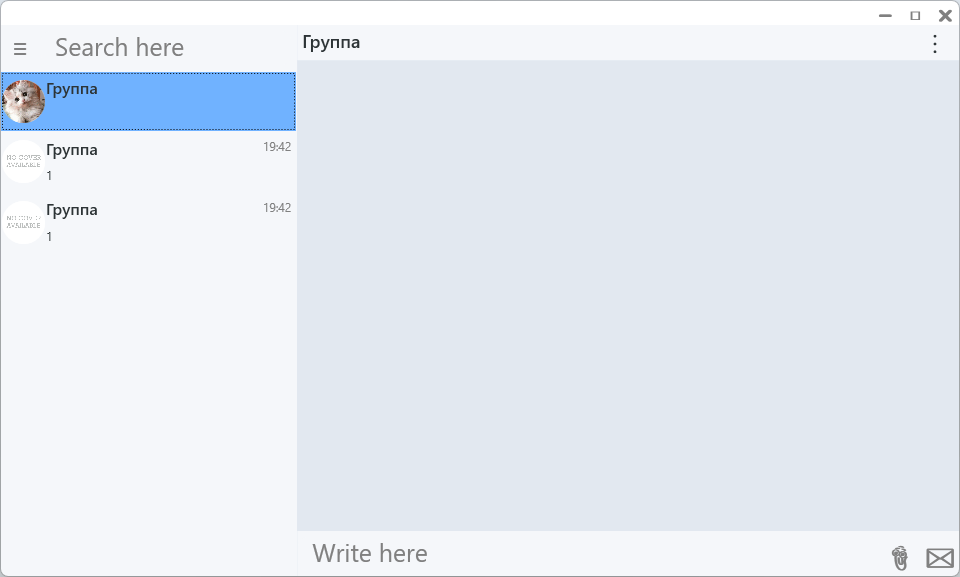
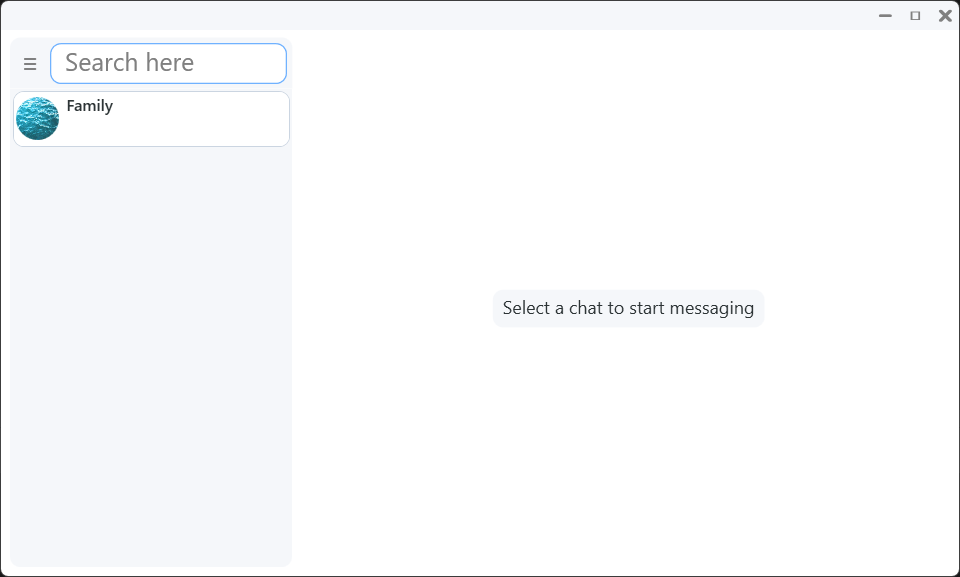
docs: change screenshots and headers in Core Features

diff --git a/readme.md b/readme.md
@@ -1,11 +1,11 @@
 # SpoofMessDesktop
 ## What is it?
 A desktop(Windows) client for [SpoofMess]("https://github.com/Pychka/SpoofMess")
-| Authorization View | Main View |
+| Login View | Main View |
 |:---:|:---:|
-| <img src="Data/AuthorizeView.png" width="300"> | <img src="Data/MainView.png" width="300"> |
+| <img src="Data/LoginView.png" width="300"> | <img src="Data/MainView.png" width="300"> |
 ## Core Features
-Now you can:
+Available now:
 - Authorize/registration in app;
 - Sync your chats + messages;
 - Send text messages;
@@ -16,7 +16,7 @@ Now you can:
     - Other files(now just only their size and name are displayed).
 
 ## Roadmap
-Soon you can:
+Coming soon:
 - create chats with any types;
 - manage your chats:
     - settings;
